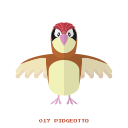
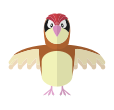
add family for attack and pokemon

Changed region(s): [[0.0789, 0.1091, 0.9211, 0.8727], [0.4211, 0.9273, 0.7105, 0.9818], [0.2895, 0.9273, 0.3947, 0.9818]]

diff --git a/src/app/app.component.ts b/src/app/app.component.ts
@@ -1,5 +1,6 @@
 import {Component} from '@angular/core';
 import {Attack, Pokemon} from "./models";
+import {Family} from "./enum";
 
 @Component({
     selector: 'app-root',
@@ -13,35 +14,35 @@ export class AppComponent {
     }
 
     attacks: Array<Attack> = [
-        new Attack('Poursuite', 7, 25),
-        new Attack('Switch', 6, 24),
-        new Attack('Coup D\'Main', 5, 23),
-        new Attack('Reflet Magik', 4, 22),
-        new Attack('Prévention', 3, 20),
-        new Attack('Ruse', 2, 19),
-        new Attack('Coup Bas', 1, 16),
-        new Attack('Déplacement', 0, 13),
-        new Attack('Corps Perdu', -1, 10),
-        new Attack('Aucune', -2, 8),
-        new Attack('Mitra-Poing', -3, 6),
-        new Attack('Avalanche', -4, 4),
-        new Attack('Riposte', -5, 2),
-        new Attack('Cyclone', -6, 1),
-        new Attack('Distorsion', -7, 0)
+        new Attack('Feu Follet', 7, 25, Family.FIRE),
+        new Attack('Hydrocanon', 6, 24, Family.WATER),
+        new Attack('Eclair', 5, 23, Family.ELECTRIC),
+        new Attack('Fouet liagne', 4, 22, Family.PLANT),
+        new Attack('Triplattaque', 3, 20, Family.NORMAL),
+        new Attack('Tacle feu', 2, 19, Family.FIRE),
+        new Attack('Cascade', 1, 16, Family.WATER),
+        new Attack('Etincelle', 0, 13, Family.ELECTRIC),
+        new Attack('Spore', -1, 10, Family.PLANT),
+        new Attack('Picanon', -2, 8, Family.NORMAL),
+        new Attack('Feu follet', -3, 6, Family.FIRE),
+        new Attack('Siphon', -4, 4, Family.WATER),
+        new Attack('Onde de choc', -5, 2, Family.ELECTRIC),
+        new Attack('Fulmigraine', -6, 1, Family.PLANT),
+        new Attack('Croc de mort', -7, 0, Family.NORMAL)
     ];
 
     pokemonList1: Array<Pokemon> = [
-        new Pokemon('Dracaufeu', 5, this.attacks),
-        new Pokemon('Evolie', 20, this.attacks),
-        new Pokemon('Miaouss', 10, this.attacks),
-        new Pokemon('Voltali', 15, this.attacks),
+        new Pokemon('Dracaufeu', 5, Family.FIRE, this.attacks),
+        new Pokemon('Magicarpe', 20, Family.WATER, this.attacks),
+        new Pokemon('Caterpie', 10, Family.PLANT,this.attacks),
+        new Pokemon('Voltali', 15, Family.ELECTRIC, this.attacks),
     ];
 
     pokemonList2: Array<Pokemon> = [
-        new Pokemon('Chetiflor', 5, this.attacks),
-        new Pokemon('Roucool', 20, this.attacks),
-        new Pokemon('taupiqueur', 10, this.attacks),
-        new Pokemon('tentacool', 15, this.attacks),
+        new Pokemon('Chetiflor', 5, Family.PLANT, this.attacks),
+        new Pokemon('Roucool', 20, Family.NORMAL, this.attacks),
+        new Pokemon('Magmar', 10, Family.FIRE, this.attacks),
+        new Pokemon('Tentacool', 15, Family.WATER, this.attacks),
     ];
 
     title = 'poke';

diff --git a/src/app/models/Pokemon.ts b/src/app/models/Pokemon.ts
@@ -1,15 +1,18 @@
 import {Attack} from "./Attack";
+import {Family} from "../enum/Family";
 
 export class Pokemon {
     private _name: string;
     private _speed: number;
     private _life: number;
+    private _family: Family;
     private _attacks: Array<Attack>;
 
-    constructor(name: string, speed: number, attacks: Array<Attack>) {
+    constructor(name: string, speed: number, family: Family, attacks: Array<Attack>) {
         this._name = name;
         this._speed = speed;
         this._life = 100;
+        this._family = family;
         this._attacks = attacks;
     }
 
@@ -39,6 +42,14 @@ export class Pokemon {
 
     get attacks(): Array<Attack> {
         return this._attacks
+    }
+
+    get family(): Family {
+        return this._family
+    }
+
+    set family(family: Family) {
+        this._family = family
     }
 
     set attacks(attacks: Array<Attack>) {

diff --git a/src/app/models/Attack.ts b/src/app/models/Attack.ts
@@ -1,12 +1,16 @@
+import {Family} from "../enum/Family";
+
 export class Attack {
     private _label: string;
     private _priority: number;
     private _power: number;
+    private _family: Family;
 
-    constructor(label: string, priority: number, power: number) {
+    constructor(label: string, priority: number, power: number, family: Family) {
         this._label = label;
         this._priority = priority;
         this._power = power;
+        this._family = family;
     }
 
     get label(): string {
@@ -31,5 +35,13 @@ export class Attack {
 
     set priority(priority: number) {
         this._priority = priority
+    }
+
+    get family(): Family {
+        return this._family
+    }
+
+    set family(family: Family) {
+        this._family = family
     }
 }

diff --git a/src/app/components/pkm-data/pkm-data.component.html b/src/app/components/pkm-data/pkm-data.component.html
@@ -1,7 +1,7 @@
-<div class="card bg-light mb-2 m-auto" style="max-width: 18rem;">
+<div class="card text-white bg-{{pokemon.family}} mb-2 m-auto" style="max-width: 18rem;">
     <div class="card-header h3 font-weight-bold text-center">{{pokemon.name}}</div>
-    <div class="card-body">
-        <img src="assets/pokemons/{{pokemon.name.toLowerCase()}}.png">
+    <div class="card-body pl-3 pr-3 pt-1 pb-1">
+        <img src="assets/pokemons/{{pokemon.name.toLowerCase()}}.png" class="d-block m-auto">
         <ul>
             <li>
                 <span class="font-weight-bold">Life : </span>

diff --git a/src/index.html b/src/index.html
@@ -8,7 +8,7 @@
   <meta name="viewport" content="width=device-width, initial-scale=1">
   <link rel="icon" type="image/x-icon" href="favicon.ico">
 </head>
-<body>
+<body class="bg-dark">
   <app-root></app-root>
 </body>
 </html>

diff --git a/src/app/enum/Family.ts b/src/app/enum/Family.ts
@@ -1,0 +1,7 @@
+export enum Family {
+    PLANT= 'success',
+    FIRE='danger',
+    WATER='info',
+    NORMAL='secondary',
+    ELECTRIC='warning'
+}

diff --git a/src/app/enum/index.ts b/src/app/enum/index.ts
@@ -1,0 +1,3 @@
+import {Family} from './Family';
+
+export { Family };
